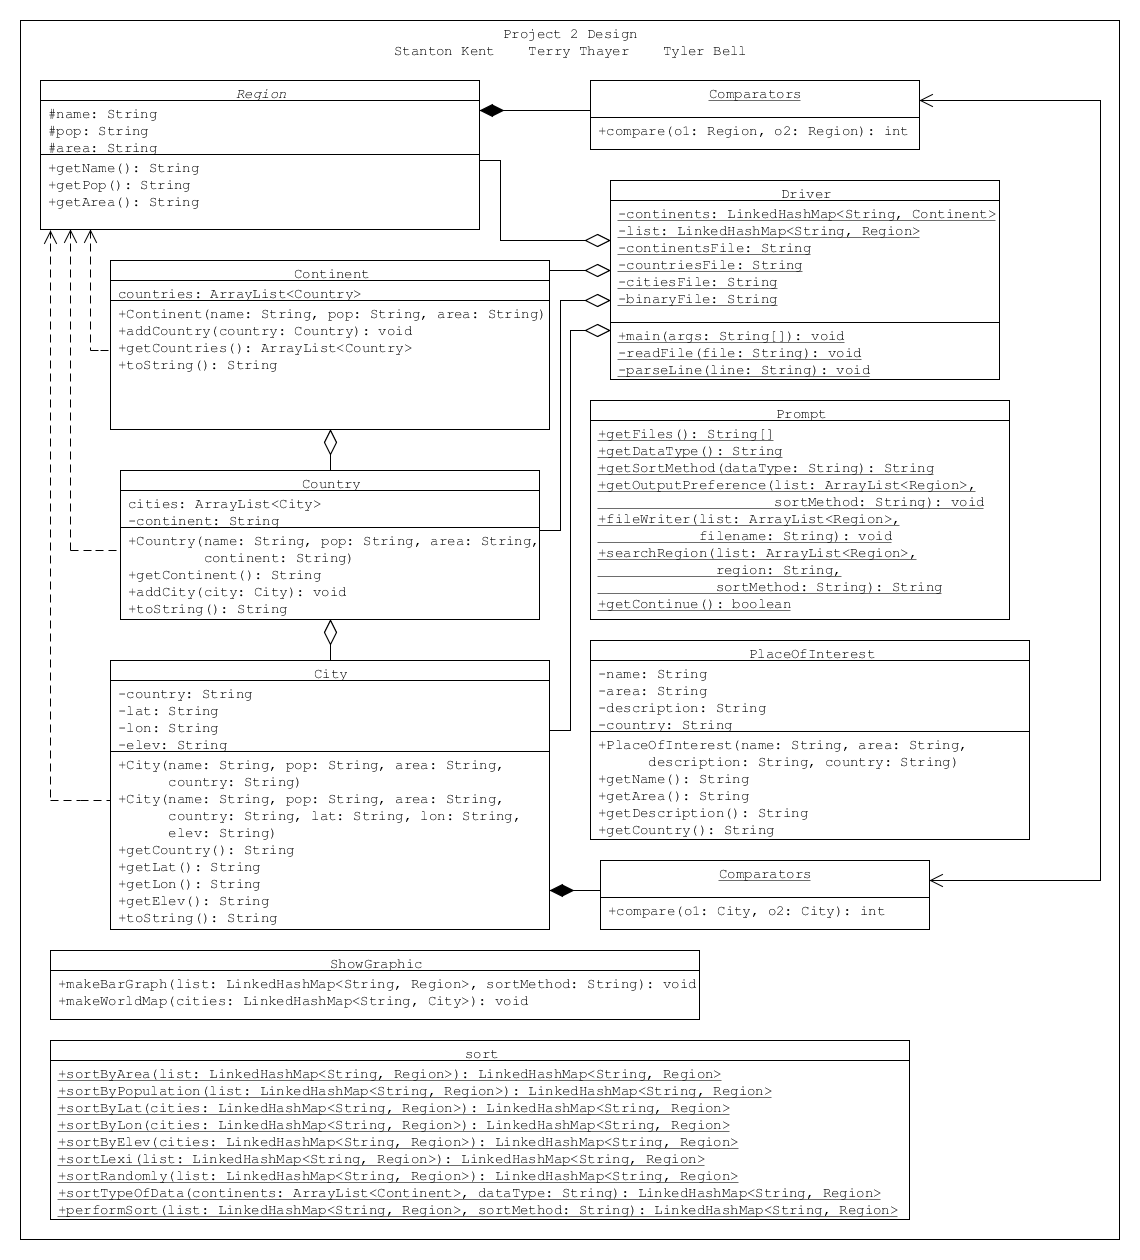
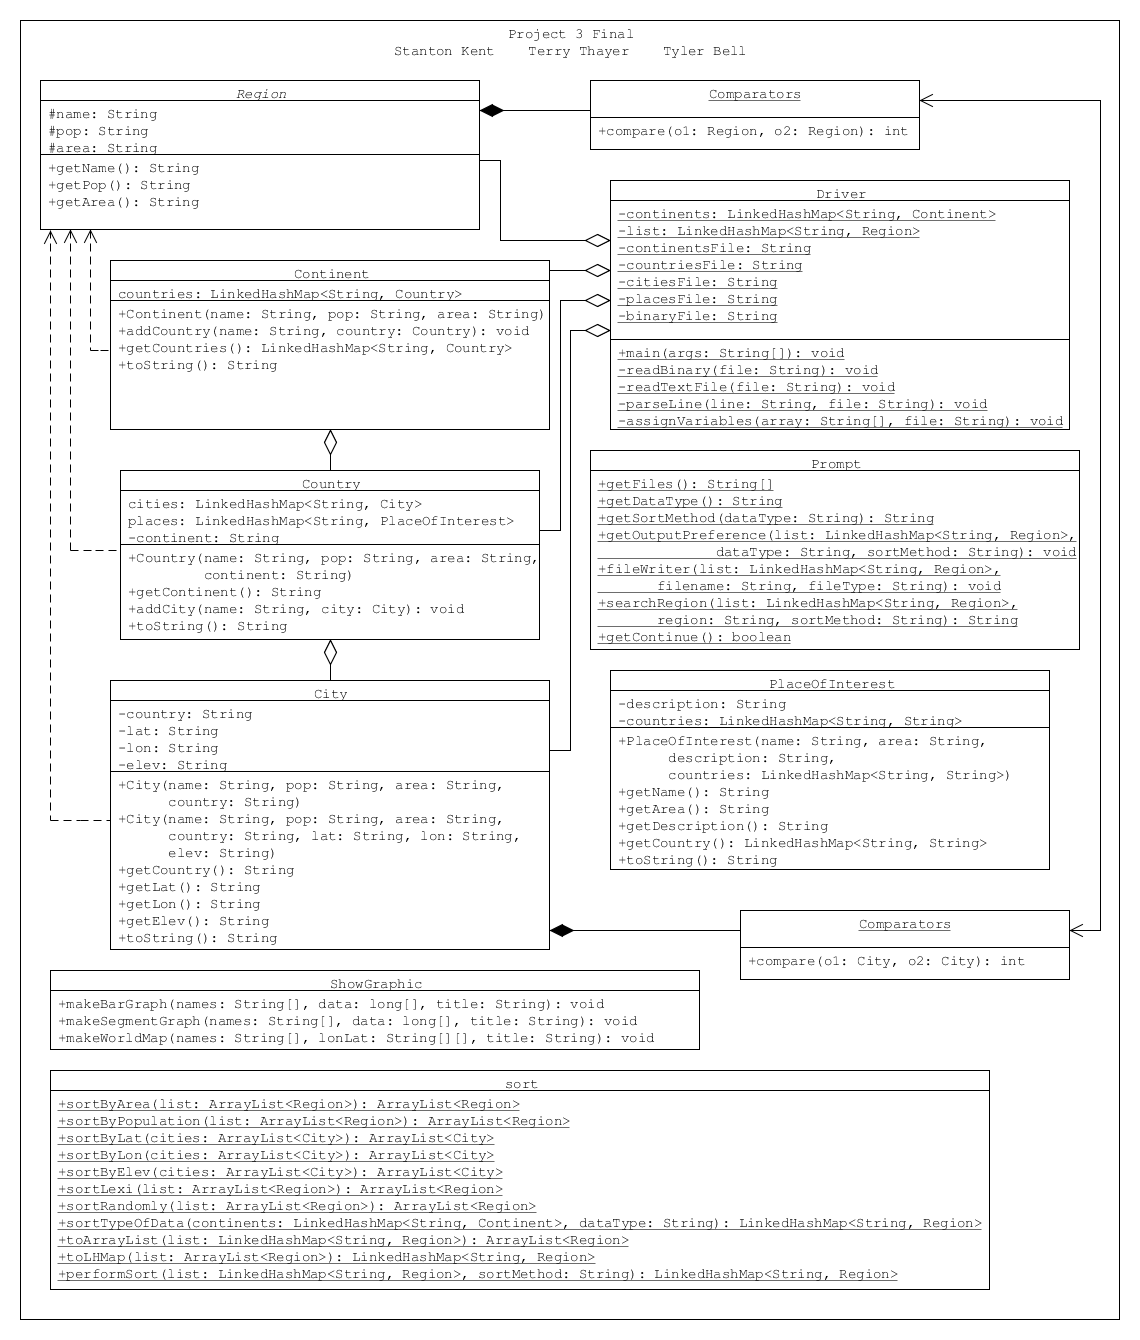
UML
*UML diagram is up to date
*Tweaked file prompt to mention that binary files take precedence

diff --git a/src/Prompt.java b/src/Prompt.java
@@ -27,15 +27,19 @@ public class Prompt
         int result;
 	    
         JPanel panel = new JPanel();
-        panel.setLayout(new GridLayout(fieldTitles.length,1));
-
+        JPanel inputPanel = new JPanel();
+        panel.setLayout(new BorderLayout());
+        panel.add(inputPanel, BorderLayout.CENTER);
+        inputPanel.setLayout(new GridLayout(fieldTitles.length + 1, 0));
+        
+        
         for (int i = 0; i < fieldTitles.length; i++)
         {
             textFields[i] = new JTextField(10);
-            panel.add(new JLabel(fieldTitles[i] + ":"));
-            panel.add(textFields[i]);            
+            inputPanel.add(new JLabel(fieldTitles[i] + ":"));
+            inputPanel.add(textFields[i]);            
         }
-        
+        panel.add(new JLabel("*Inputting binary file will override other fields"), BorderLayout.SOUTH);
         do {
             fileError = false;
             result = JOptionPane.showConfirmDialog(null, panel, 
